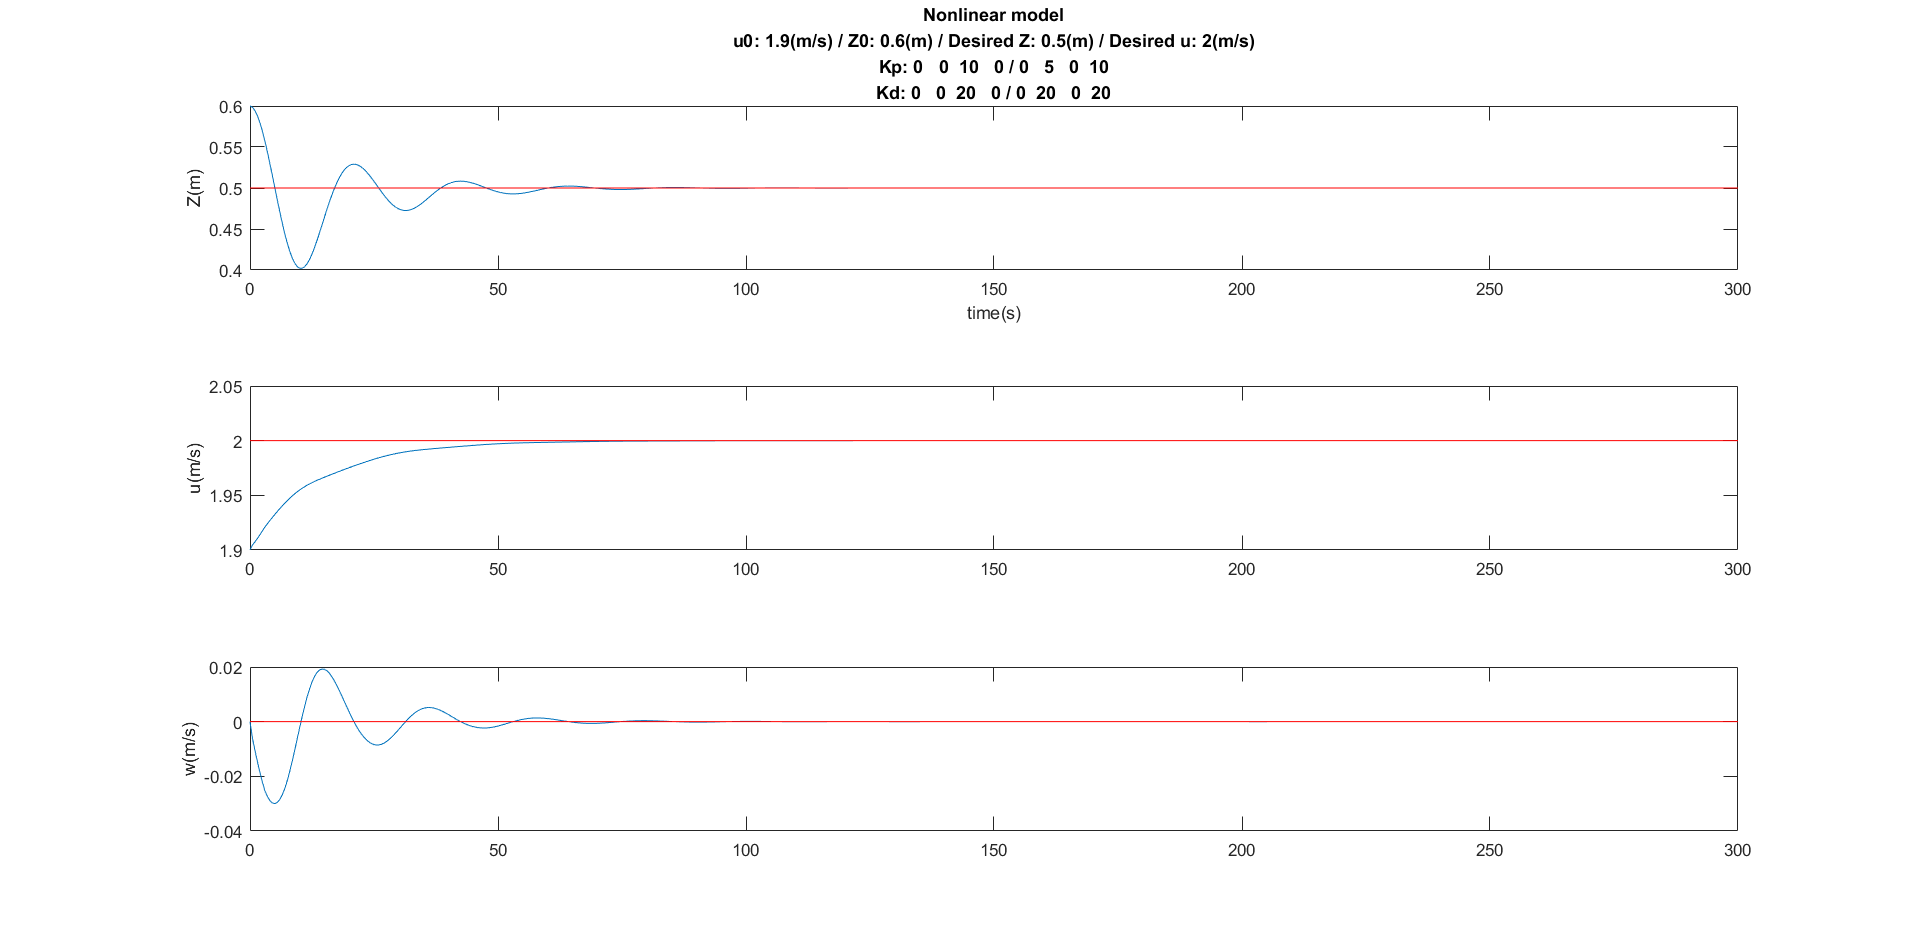
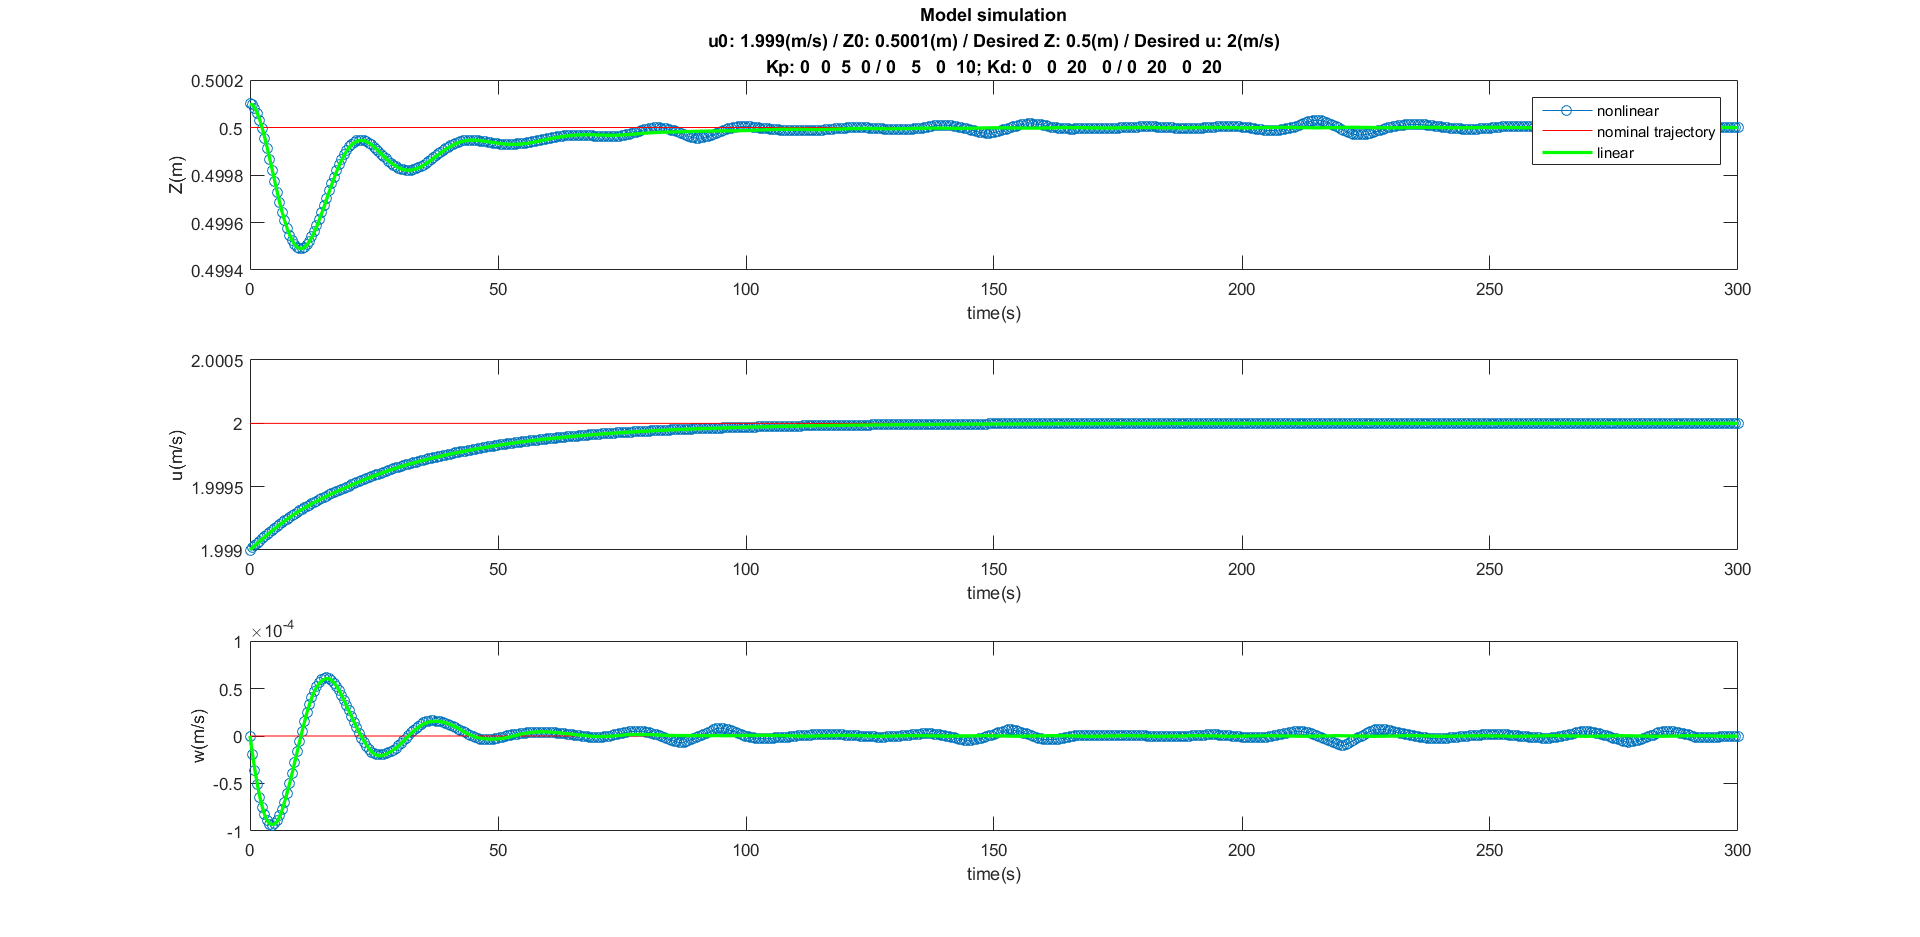
derivative controller with derivative as a state

diff --git a/UUVsimulation.m b/UUVsimulation.m
@@ -1,6 +1,7 @@
 clear;
 N_states = 4;
 N_inputs = 2;
+tspan = (0:0.5:300)'; % ode time span
 syms t
 
 %%%%%%% nominal data setting (usually equilibrium) and synamics system 
@@ -8,8 +9,8 @@ syms t
 % We have 3 system-dependent states, and 5 variables to set to get the
 % desired motion. Therefore we need to set 2 parameters to get the rest of
 % the steady motion states and inputs
-nominal_x0 = [0; 0.5; 2; 0]; % nominal initial state: X, Z, u, w
-nominal_data_setting = [0.5; 2]; % Set Z, u. 
+nominal_x0 = [0; 0.5; 5; 0]; % nominal initial state: X, Z, u, w
+nominal_data_setting = [0.5; 5]; % Set Z, u. 
 [A,B,nominal_x,nominal_input] = getLinearSys(nominal_x0,nominal_data_setting);
 C = eye(N_states); D = zeros(N_states,N_inputs); % specify C and D matrices for output y
 % Also, we can arbitrary nominal data we want to achieve. For example:
@@ -17,28 +18,27 @@ C = eye(N_states); D = zeros(N_states,N_inputs); % specify C and D matrices for 
 % nominal_input = [100; 50];
 
 %%%%%%% Gains and initial states
-global x_errLast
-global ttLast
-x0 = [0; 0.6; 1.9; 0]; % initial state: X, Z, u, w
+global udott wdott
+x0 = [0; 0.6; 2; 0]; % initial state: X, Z, u, w
 % Control gains
 % feedback error
-Kp_xdir = [0 0 10 0];
-Kp_zdir = [0 5 0 10];
-Kd_xdir = [0 0 5 0];
-Kd_zdir = [0 5 0 5];
+Kp_xdir = [0 0 50 0];
+Kp_zdir = [0 50 0 100];
+Kd_xdir = [0 0 0 0];
+Kd_zdir = [0 0 0 0];
 KpGains = [Kp_xdir; Kp_zdir];
 KdGains = [Kd_xdir; Kd_zdir];
 
-%%%%%%% ODE numerical solution
-tspan = (0:0.5:300)';
-%%%%%% ode45 for nonlinear system
-x_errLast = nominal_x0-x0;
+%%%%%% solve ode of nonlinear system
+udott = 0; wdott = 0; % initialization of state derivative
+UUVode = @(tt,x) systemUUV(tt,x,nominal_x,nominal_input,KpGains,KdGains);
+[thist,xhist] = ode45(UUVode,tspan,x0);
+%%%%%% solve ode of linearized system
+udott = 0; wdott = 0; % initialization of state derivative
 ttLast = -0.1; % arbitrarily set an initial time
-UUVode45 = @(tt,x) systemUUV(tt,x,nominal_x,nominal_input,KpGains,KdGains);
-[thist,xhist] = ode15s(UUVode45,tspan,x0);
-%%%%%% ode45 for linearized system (output Detx)
-UUVode45_Linear = @(tt,Detx) systemUUVLinear(tt,Detx,A,B,KpGains);
-[thist_LinearDet,xhist_LinearDet] = ode45(UUVode45_Linear,tspan,x0-nominal_x0);
+UUVode_Linear = @(tt,Detx) systemUUVLinear(tt,Detx,A,B,KpGains,KdGains);
+[thist_LinearDet,xhist_LinearDet] = ode45(UUVode_Linear,tspan,x0-nominal_x0);
+
 
 %%%%%% ode45 for nonlinear system with openloop control
 % DetForce_hist = (-feedbackGain*xhist_LinearDet')';
@@ -58,13 +58,18 @@ nominal_x_shown(:,4) = double(nominal_x(4,1));
 
 figure, 
 subplot(3,1,1), 
-plot(thist, xhist(:,2), thist, nominal_x_shown(:,2), 'r'); ylabel('Z(m)'), xlabel('time(s)');
-title({'Nonlinear model',['u0: ',num2str(x0(3,1)),'(m/s) / Z0: ',num2str(x0(2,1)),'(m) / Desired Z: ',num2str(double(nominal_x(2,1))),'(m) / Desired u: ',num2str(double(nominal_x(3,1))),'(m/s)'], ...
-      ['Kp: ', num2str(KpGains(1,:)), ' / ', num2str(KpGains(2,:))], ['Kd: ', num2str(KdGains(1,:)), ' / ', num2str(KdGains(2,:))]});
+plot(thist, xhist(:,2), '-o', thist, nominal_x_shown(:,2), 'r'); hold on;
+plot(thist_LinearDet, xhist_LinearDet(:,2)+nominal_x(2,1), 'g', 'LineWidth', 2); ylabel('Z(m)'), xlabel('time(s)')
+title({'Model simulation',['Z0: ',num2str(x0(2,1)),'(m) / u0: ',num2str(x0(3,1)),'(m/s) / Desired Z: ',num2str(double(nominal_x(2,1))),'(m) / Desired u: ',num2str(double(nominal_x(3,1))),'(m/s)'], ...
+      ['Kp: ', num2str(KpGains(1,:)), ' / ', num2str(KpGains(2,:)),'; Kd: ', num2str(KdGains(1,:)), ' / ', num2str(KdGains(2,:))]});
+legend('nonlinear', 'nominal trajectory', 'linear')
 subplot(3,1,2),
-plot(thist, xhist(:,3), thist, nominal_x_shown(:,3), 'r'); ylabel('u(m/s)');
+plot(thist, xhist(:,3), '-o', thist, nominal_x_shown(:,3), 'r'); hold on;
+plot(thist_LinearDet, xhist_LinearDet(:,3)+nominal_x(3,1), 'g', 'LineWidth', 2); ylabel('u(m/s)'), xlabel('time(s)');
 subplot(3,1,3),
-plot(thist, xhist(:,4), thist, nominal_x_shown(:,4), 'r'); ylabel('w(m/s)');
+plot(thist, xhist(:,4), '-o', thist, nominal_x_shown(:,4), 'r'); hold on;
+plot(thist_LinearDet, xhist_LinearDet(:,4)+nominal_x(4,1), 'g', 'LineWidth', 2); ylabel('w(m/s)'), xlabel('time(s)');
+
 
 % figure, 
 % subplot(3,1,1),
@@ -74,7 +79,7 @@ plot(thist, xhist(:,4), thist, nominal_x_shown(:,4), 'r'); ylabel('w(m/s)');
 % plot(thist_LinearDet, xhist_LinearDet(:,3)); ylabel('Predicted Deviation u(m/s)');
 % subplot(3,1,3),
 % plot(thist_LinearDet, xhist_LinearDet(:,4)); ylabel('Predicted Deviation w(m/s)');
-% 
+
 % figure, 
 % subplot(3,1,1), 
 % plot(thist_open, xhist_open(:,2), thist_open, nominal_x_shown(:,2), 'r'); ylabel('Z(m)'), xlabel('time(s)');

diff --git a/systemUUV.m b/systemUUV.m
@@ -1,6 +1,6 @@
 function dxdt = systemUUV(tt,x,nominal_x,nominal_input,KpGains,KdGains)
 
-global x_errLast ttLast FuLast FwLast
+global udott wdott
 syms t
 
 nominal_x = double(subs(nominal_x,t,tt));
@@ -24,18 +24,10 @@ dDetMB33_over_dZ = -3157*Z^5 + 11770*Z^4 - 17430*Z^3 + 12920*Z^2 - 4853*Z + 757.
 
 % control forces
 x_err = nominal_x-x;
-dtt = tt-ttLast;
-if dtt>0
-    Fu = nominal_input(1,1) + (KpGains(1,:)*x_err + KdGains(1,:)*(x_err-x_errLast)/dtt); % Consider the feedback errors contributed by all the components in xdir
-    Fw = nominal_input(2,1) + (KpGains(2,:)*x_err + KdGains(2,:)*(x_err-x_errLast)/dtt); % Consider the feedback errors contributed by all the components in zdir
-    FuLast = Fu;
-    FwLast = Fw;
-    x_errLast = x_err;
-    ttLast = tt;
-else
-    Fu = FuLast;
-    Fw = FwLast;
-end
+x_errdot = [nominal_x(3,1)-u; nominal_x(4,1)-w; 0-udott; 0-wdott];
+
+Fu = nominal_input(1,1) + (KpGains(1,:)*x_err + KdGains(1,:)*x_errdot); % Consider the feedback errors contributed by all the components in xdir
+Fw = nominal_input(2,1) + (KpGains(2,:)*x_err + KdGains(2,:)*x_errdot); % Consider the feedback errors contributed by all the components in zdir
 
 % Calculate all the needed coefficients to solve coupling udot and wdot
 A_coe = m+MB11_plus_DetMB11;
@@ -51,7 +43,9 @@ state_udotwdot = [A_coe 0; D_coe E_coe]\[Fu-B_coe*u*w-C_coe*w; Fw-F_coe*u^2-G_co
 Xdot = u;
 Zdot = w;
 udot = state_udotwdot(1);
+udott = udot;
 wdot = state_udotwdot(2);
+wdott = wdot;
 
 dxdt = [Xdot; Zdot; udot; wdot];
 

diff --git a/getLinearSys.m b/getLinearSys.m
@@ -24,7 +24,7 @@ E_coe = m+MB33_plue_DetMB33;
 F_coe = -0.5*dDetMB11_over_dZ;
 G_coe = 0.5*(dDetMB31_over_dZ-dDetMB13_over_dZ);
 H_coe = 0.5*dDetMB33_over_dZ;
-state_udotwdot = [A_coe 0; D_coe E_coe]\[Fu-B_coe*u*w-C_coe*w; Fw-F_coe*u^2-G_coe*u*w-H_coe*w^2];
+state_udotwdot = [A_coe 0; D_coe E_coe]\[Fu-B_coe*u*w-C_coe*w; Fw-F_coe*u^2-G_coe*u*w-H_coe*w^2]; % need to add code to prevent sigular [A_coe 0; D_coe E_coe]
 
 %%%%%%% independent motion
 % f1

diff --git a/systemUUVLinear.m b/systemUUVLinear.m
@@ -1,3 +1,12 @@
-function dDetxdt = systemUUVLinear(tt,Detx,A,B,KpGains)
+function dDetxdt = systemUUVLinear(tt,Detx,A,B,KpGains,KdGains)
 
-dDetxdt = (A-B*KpGains)*Detx;
+global udott wdott
+
+x_err = 0-Detx;
+x_errdot = [0-Detx(3,1); 0-Detx(4,1); 0-udott; 0-wdott];
+
+dDetxdtt = A*Detx + B*(KpGains*x_err + KdGains*x_errdot);
+udott = dDetxdtt(3,1);
+wdott = dDetxdtt(4,1);
+
+dDetxdt = dDetxdtt;

diff --git a/AnalyticLinearSys.m b/AnalyticLinearSys.m
@@ -115,7 +115,7 @@ dcm_obj = datacursormode(fhandle);
 set(dcm_obj,'UpdateFcn',@myCursor);
 
 %% System controllability and initial consition analysis
-nominal_Z = 1.909; nominal_u = 2;
+nominal_Z = 0.5; nominal_u = 2;
 nominal_x0 = [0; nominal_Z; nominal_u; 0]; % matters to X
 nominal_data_setting = [nominal_Z; nominal_u]; % Set Z, u.
 
